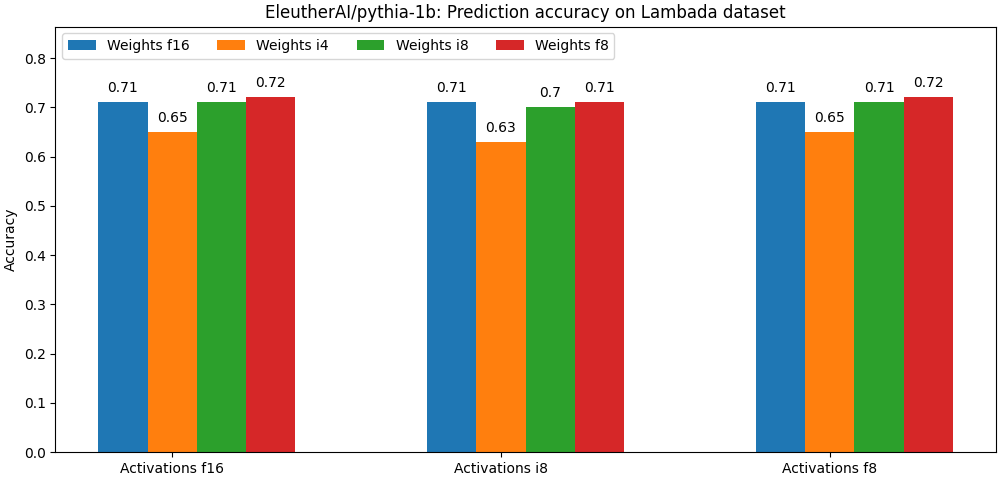
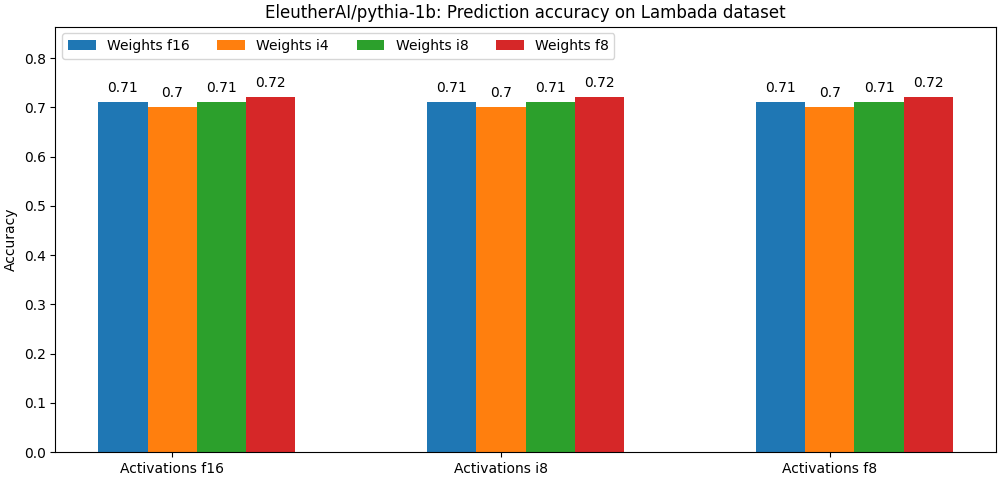
docs: update benchmark numbers

Changed region(s): [[0.465, 0.1562, 0.62, 0.3125], [0.124, 0.1875, 0.217, 0.2812], [0.806, 0.1875, 0.868, 0.2812]]

diff --git a/bench/generation/README.md b/bench/generation/README.md
@@ -8,52 +8,75 @@ This repository contains scripts to evaluate the performances of quantized model
 
 A `evaluate_model.py` utility script is also provided to evaluate the metrics on a specific model for several quantization configurations, and output the result to a `png` barchart and/or a `json` file.
 
-The paragraphs below display results for some popular models on a NVIDIA A100 GPU.
+Note: the language modeling head (lm_head) of the tested models is not quantized.
 
-## facebook/opt-125m
+The paragraphs below display results for some popular models on a NVIDIA A10 GPU.
+
+## meta-llama/Meta-Llama-3-8B
 
 <div class="row"><center>
   <div class="column">
-    <img src="https://github.com/huggingface/quanto/blob/main/bench/generation/charts/facebook-opt-125m_Accuracy.png" alt="facebook/opt-125m Lambada prediction accuracy">
+    <img src="https://github.com/huggingface/quanto/blob/main/bench/generation/charts/meta-llama-Meta-llama-3-8B_Accuracy.png" alt="meta-llama/Meta-llama-3-8B Lambada prediction accuracy">
   </div>
  </center>
 </div>
 
 <div class="row"><center>
   <div class="column">
-    <img src="https://github.com/huggingface/quanto/blob/main/bench/generation/charts/facebook-opt-125m_Perplexity.png" alt="facebook/opt-125m WikiText perplexity">
-  </div>
- </center>
-</div>
-
-## facebook/opt-350m
-
-<div class="row"><center>
-  <div class="column">
-    <img src="https://github.com/huggingface/quanto/blob/main/bench/generation/charts/facebook-opt-350m_Accuracy.png" alt="facebook/opt-350m Lambada prediction accuracy">
+    <img src="https://github.com/huggingface/quanto/blob/main/bench/generation/charts/meta-llama-Meta-Llama-3-8B_Perplexity.png" alt="meta-llama/Meta-Llama-3-8B WikiText perplexity">
   </div>
  </center>
 </div>
 
 <div class="row"><center>
   <div class="column">
-    <img src="https://github.com/huggingface/quanto/blob/main/bench/generation/charts/facebook-opt-350m_Perplexity.png" alt="facebook/opt-350m WikiText perplexity">
+    <img src="https://github.com/huggingface/quanto/blob/main/bench/generation/charts/meta-llama-Meta-Llama-3-8B_Latency__ms_.png" alt="meta-llama/Meta-Llama-3-8B Latency">
   </div>
  </center>
 </div>
 
-## facebook/opt-1.3b
+## mistralai/Mistral-7B-Instruct-v0.3
 
 <div class="row"><center>
   <div class="column">
-    <img src="https://github.com/huggingface/quanto/blob/main/bench/generation/charts/facebook-opt-1.3b_Accuracy.png" alt="facebook/opt-1.3bm Lambada prediction accuracy">
+    <img src="https://github.com/huggingface/quanto/blob/main/bench/generation/charts/mistralai-Mistral-7B-Instruct-v0.3_Accuracy.png" alt="mistralai/Mistral-7B-Instruct-v0.3 Lambada prediction accuracy">
   </div>
  </center>
 </div>
 
 <div class="row"><center>
   <div class="column">
-    <img src="https://github.com/huggingface/quanto/blob/main/bench/generation/charts/facebook-opt-1.3b_Perplexity.png" alt="facebook/opt-1.3bm WikiText perplexity">
+    <img src="https://github.com/huggingface/quanto/blob/main/bench/generation/charts/mistralai-Mistral-7B-Instruct-v0.3_Perplexity.png" alt="mistralai/Mistral-7B-Instruct-v0.3 WikiText perplexity">
+  </div>
+ </center>
+</div>
+
+<div class="row"><center>
+  <div class="column">
+    <img src="https://github.com/huggingface/quanto/blob/main/bench/generation/charts/mistralai-Mistral-7B-Instruct-v0.3_Latency__ms_.png" alt="mistralai/Mistral-7B-Instruct-v0.3 Latency">
+  </div>
+ </center>
+</div>
+
+## google/gemma-2b
+
+<div class="row"><center>
+  <div class="column">
+    <img src="https://github.com/huggingface/quanto/blob/main/bench/generation/charts/google-gemma-2b_Accuracy.png" alt="google-gemma-2b Lambada prediction accuracy">
+  </div>
+ </center>
+</div>
+
+<div class="row"><center>
+  <div class="column">
+    <img src="https://github.com/huggingface/quanto/blob/main/bench/generation/charts/google-gemma-2b_Perplexity.png" alt="google-gemma-2b WikiText perplexity">
+  </div>
+ </center>
+</div>
+
+<div class="row"><center>
+  <div class="column">
+    <img src="https://github.com/huggingface/quanto/blob/main/bench/generation/charts/google-gemma-2b_Latency__ms_.png" alt="google-gemma-2b Latency">
   </div>
  </center>
 </div>
@@ -74,6 +97,13 @@ The paragraphs below display results for some popular models on a NVIDIA A100 GP
  </center>
 </div>
 
+<div class="row"><center>
+  <div class="column">
+    <img src="https://github.com/huggingface/quanto/blob/main/bench/generation/charts/EleutherAI-pythia-1b_Latency_ms_.png" alt="EleutherAI-pythia-1b Latency">
+  </div>
+ </center>
+</div>
+
 ## princeton-nlp/Sheared-LLaMA-1.3B
 
 <div class="row"><center>
@@ -90,66 +120,9 @@ The paragraphs below display results for some popular models on a NVIDIA A100 GP
  </center>
 </div>
 
-## NousResearch/Llama-2-7b-hf
-
 <div class="row"><center>
   <div class="column">
-    <img src="https://github.com/huggingface/quanto/blob/main/bench/generation/charts/NousResearch-Llama-2-7b-hf_Accuracy.png" alt="NousResearch/Llama-2-7b-hf Lambada prediction accuracy">
-  </div>
- </center>
-</div>
-
-<div class="row"><center>
-  <div class="column">
-    <img src="https://github.com/huggingface/quanto/blob/main/bench/generation/charts/NousResearch-Llama-2-7b-hf_Perplexity.png" alt="NousResearch/Llama-2-7b-hf WikiText perplexity">
-  </div>
- </center>
-</div>
-
-## mistralai/Mistral-7B-v0.1
-
-<div class="row"><center>
-  <div class="column">
-    <img src="https://github.com/huggingface/quanto/blob/main/bench/generation/charts/mistralai-Mistral-7B-v0.1_Accuracy.png" alt="mistralai/Mistral-7B-v0.1 Lambada prediction accuracy">
-  </div>
- </center>
-</div>
-
-<div class="row"><center>
-  <div class="column">
-    <img src="https://github.com/huggingface/quanto/blob/main/bench/generation/charts/mistralai-Mistral-7B-v0.1_Perplexity.png" alt="mistralai/Mistral-7B-v0.1 Lambada prediction accuracy">
-  </div>
- </center>
-</div>
-
-## HuggingFaceH4/zephyr-7b-beta
-
-<div class="row"><center>
-  <div class="column">
-    <img src="https://github.com/huggingface/quanto/blob/main/bench/generation/charts/HuggingFaceH4-zephyr-7b-beta_Accuracy.png" alt="HuggingFaceH4/zephyr-7b-beta Lambada prediction accuracy">
-  </div>
- </center>
-</div>
-
-<div class="row"><center>
-  <div class="column">
-    <img src="https://github.com/huggingface/quanto/blob/main/bench/generation/charts/HuggingFaceH4-zephyr-7b-beta_Perplexity.png" alt="HuggingFaceH4/zephyr-7b-beta Lambada prediction accuracy">
-  </div>
- </center>
-</div>
-
-## google/gemma-2b
-
-<div class="row"><center>
-  <div class="column">
-    <img src="https://github.com/huggingface/quanto/blob/main/bench/generation/charts/google-gemma-2b_Accuracy.png" alt="google-gemma-2b Lambada prediction accuracy">
-  </div>
- </center>
-</div>
-
-<div class="row"><center>
-  <div class="column">
-    <img src="https://github.com/huggingface/quanto/blob/main/bench/generation/charts/google-gemma-2b_Perplexity.png" alt="google-gemma-2b Lambada prediction accuracy">
+    <img src="https://github.com/huggingface/quanto/blob/main/bench/generation/charts/princeton-nlp-Sheared-LLaMA-1.3B_Latency__ms_.png" alt="princeton-nlp/Sheared-LLaMA-1.3B Latency">
   </div>
  </center>
 </div>

diff --git a/README.md b/README.md
@@ -89,16 +89,23 @@ Activations are dynamically quantized using static scales (defaults to the range
 In a nutshell:
 
 - accuracy: models compiled with `int8`/`float8` weights and `float8` activations are very close to the `16-bit` models,
-- latency: all models are at least `2x` slower than the `16-bit` models due to the lack of optimized kernels (for now).
+- latency: all models but those using int4 weights are at least `2x` slower than the `16-bit` models due to the lack of optimized kernels (for now).
 - device memory: approximately divided by float bits / integer bits.
 
 The paragraph below is just an example. Please refer to the `bench` folder for detailed results per use-case of model.
 
-### NousResearch/Llama-2-7b-hf
+### meta-llama/Meta-Llama-3-8B
 
 <div class="row"><center>
   <div class="column">
-    <img src="https://github.com/huggingface/quanto/blob/main/bench/generation/charts/NousResearch-Llama-2-7b-hf_Perplexity.png" alt="NousResearch/Llama-2-7b-hf WikiText perplexity">
+    <img src="https://github.com/huggingface/quanto/blob/main/bench/generation/charts/meta-llama-Meta-Llama-3-8B_Perplexity.png" alt="meta-llama/Meta-Llama-3-8B WikiText perplexity">
+  </div>
+ </center>
+</div>
+
+<div class="row"><center>
+  <div class="column">
+    <img src="https://github.com/huggingface/quanto/blob/main/bench/generation/charts/meta-llama-Meta-Llama-3-8B_Latency__ms_.png" alt="meta-llama/Meta-Llama-3-8B Latency">
   </div>
  </center>
 </div>
